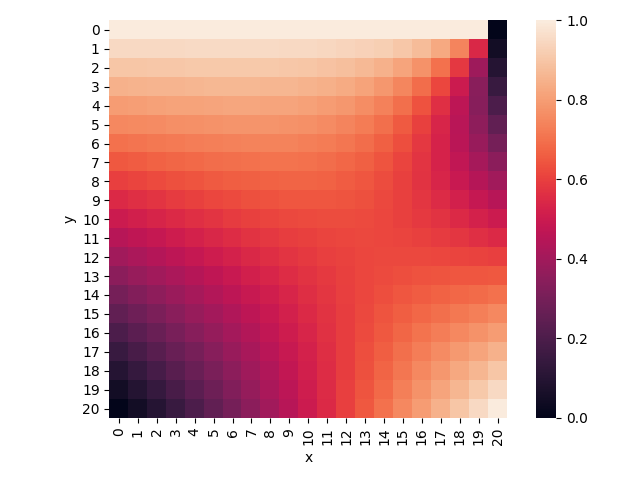
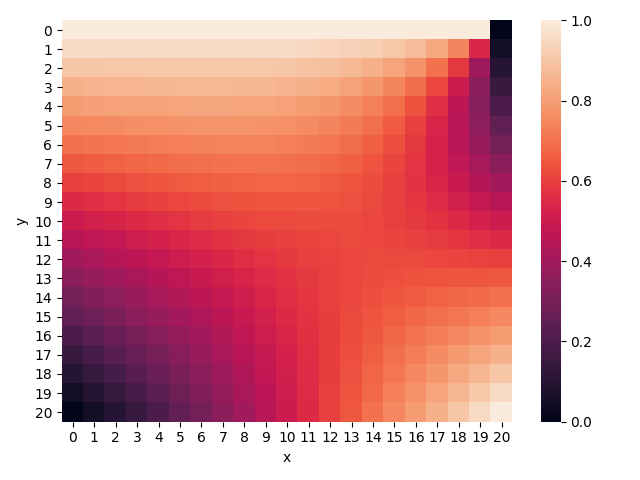
add : ラプラス方程式の描画を改善

Changed region(s): [[0.0312, 0.0312, 0.9375, 0.9688], [0.625, 0.125, 0.6875, 0.2812]]

diff --git a/ode_pde/pde_dirichlet.py b/ode_pde/pde_dirichlet.py
@@ -56,9 +56,10 @@ def main():
                         b[cur_index] += -1 * coef * u[x, y + i]
                     else:
                         a[cur_index, get_index(x, y + i, kGrid)] += coef
-    plt.imshow(u, interpolation="none")
+    fig = plt.figure()
+    sns.heatmap(np.rot90(u))
     plt.savefig("init.png")
-
+    fig = plt.figure()
     x = sor(a, b, 1.2)
     x = np.reshape(x, (kGrid - 1, kGrid - 1))
     u[1:kGrid, 1:kGrid] = x
